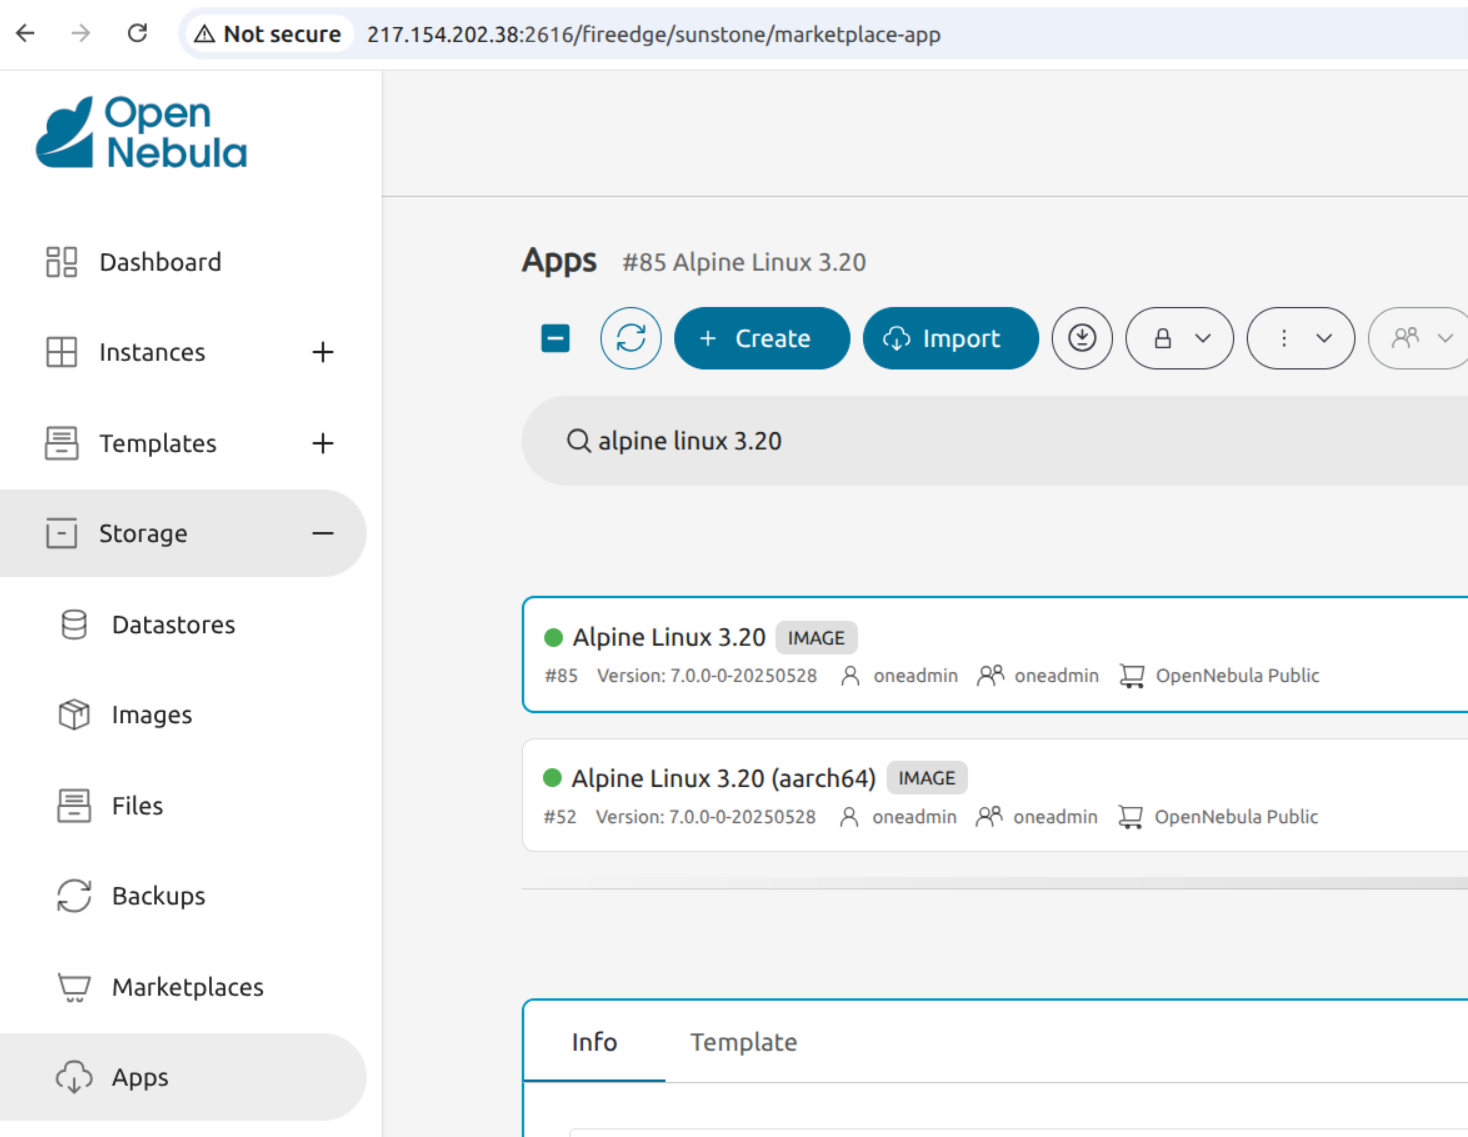
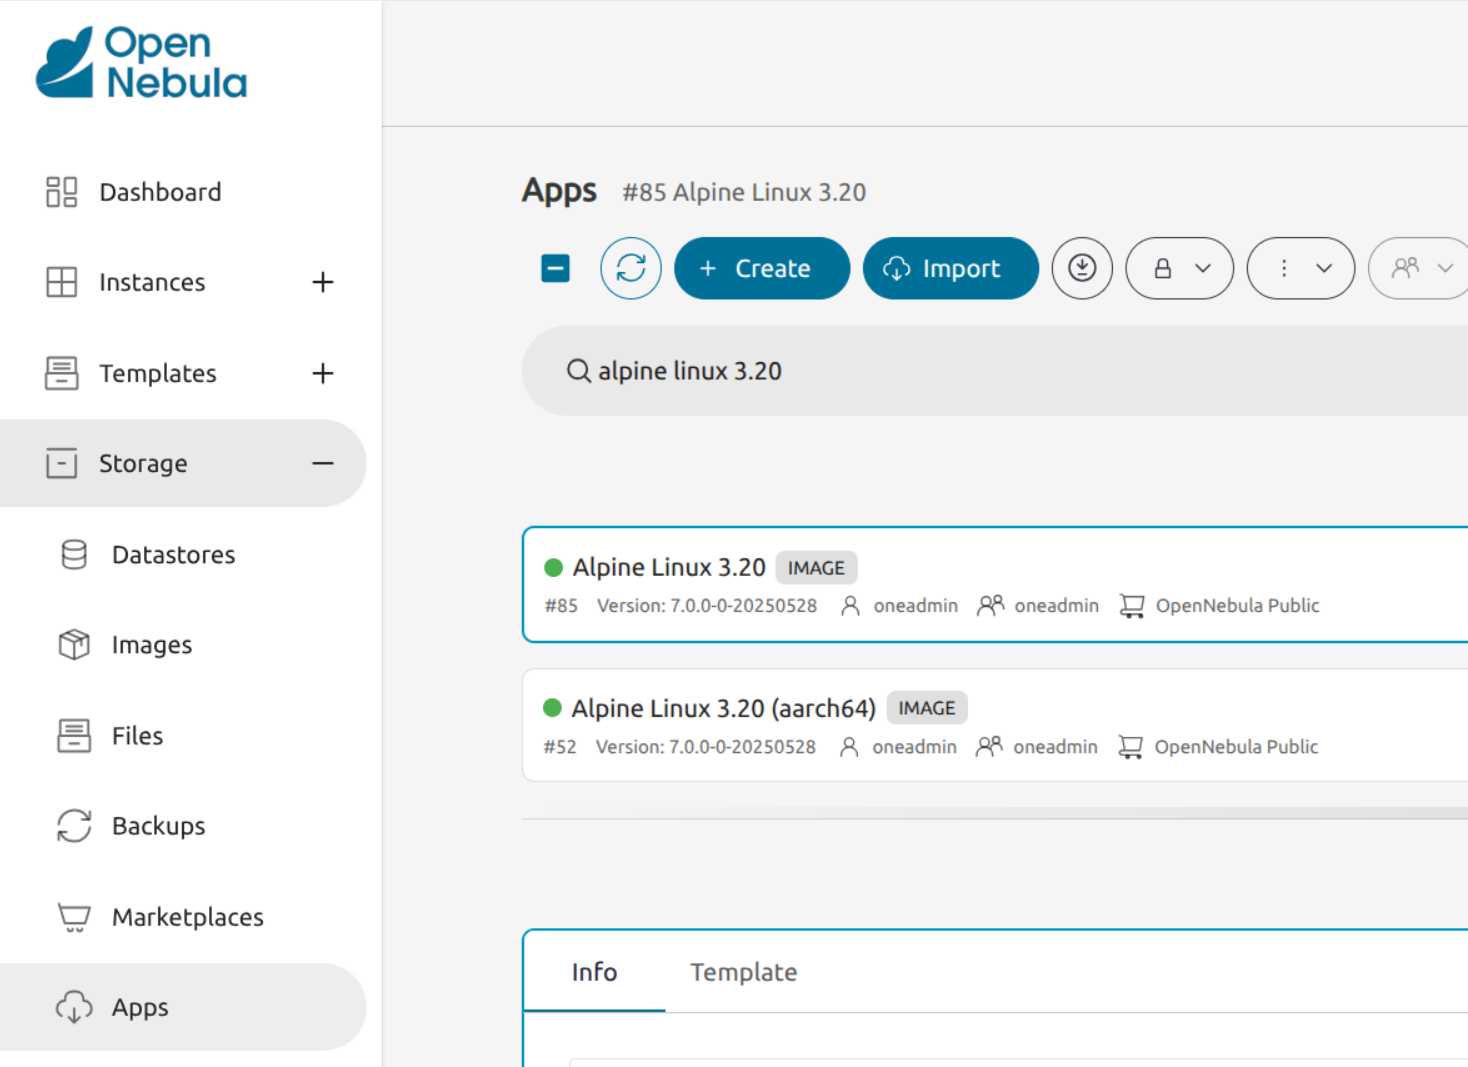
F OpenNebula/one#7170: move guies out of quickstart
- place common screenshot guides in solutions
- remove address bars from screenshots

diff --git a/content/solutions/certified_hw_platforms/ampere_opennebula/basic_ui_guide.md b/content/solutions/certified_hw_platforms/ampere_opennebula/basic_ui_guide.md
@@ -7,4 +7,4 @@ tags:
 weight: 4
 ---
 
-After the deployment is successful, you can test your installation by instantiating a Virtual Machine and accessing it through the OpenNebula web UI, by following the screenshot-driven [Validate Certified Hardware Deployments]({{% relref "../../../quick_start/validate_opennebula/certified_hardware_deployments/common_101_gui_guide" %}}).
+After the deployment is successful, you can test your installation by instantiating a Virtual Machine and accessing it through the OpenNebula web UI, by following the screenshot-driven [Validate Certified Hardware Deployments]({{% relref "../validate_certified_hardware_deployments/common_101_gui_guide" %}}).

diff --git a/content/solutions/hosted_cloud_providers/ionos_opennebula/basic_ui_guide.md b/content/solutions/hosted_cloud_providers/ionos_opennebula/basic_ui_guide.md
@@ -7,4 +7,4 @@ tags:
 weight: 4
 ---
 
-After the deployment is successful, you can test your installation by instantiating a Virtual Machine and accessing it through the OpenNebula web UI, by following the screenshot-driven [Validate Hosted Cloud Deployments]({{% relref "../../../quick_start/validate_opennebula/hosted_cloud_deployments/common_101_gui_guide" %}}).
+After the deployment is successful, you can test your installation by instantiating a Virtual Machine and accessing it through the OpenNebula web UI, by following the screenshot-driven [Validate Hosted Cloud Deployments]({{% relref "../validate_hosted_cloud_deployments/common_101_gui_guide" %}}).
